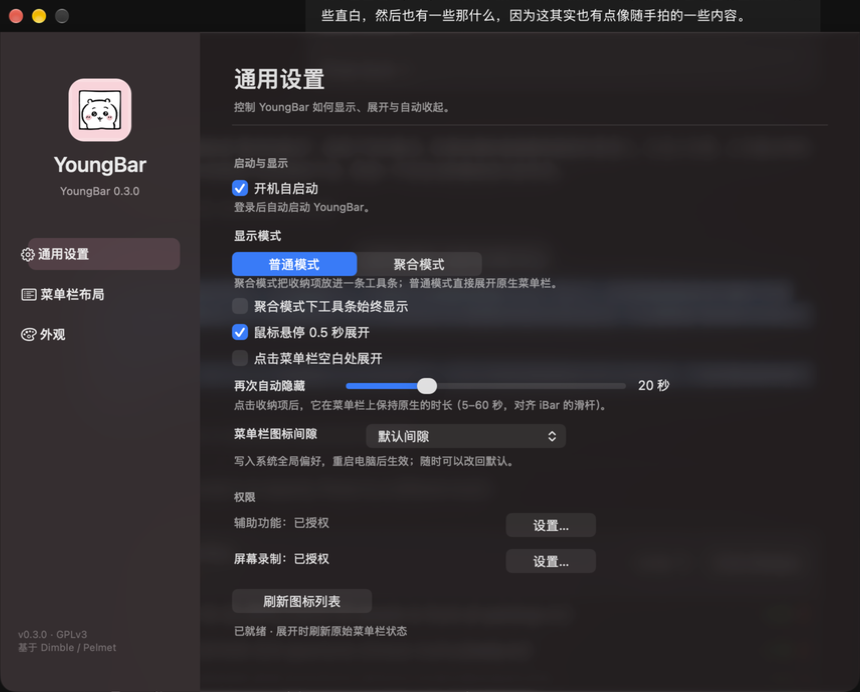
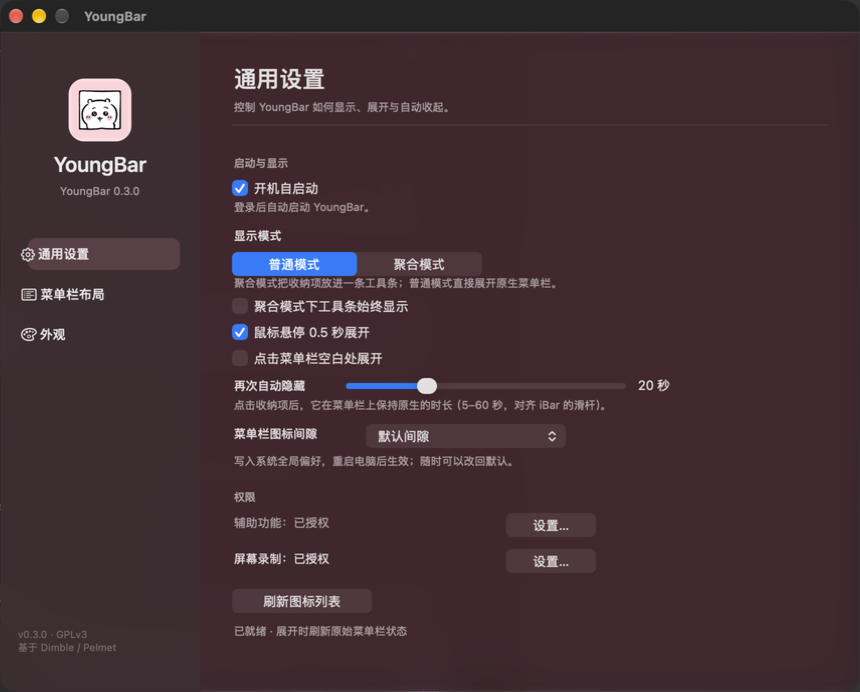
fix(youngbar): 设置窗口改为深色可拖动标题栏
- titlebarAppearsTransparent=false，显示 YoungBar 标题
- 窗口背景使用主题深色，深色模式下标题栏实心可拖
- 正文保持玻璃；浅色模式沿用系统标题栏
- 截图与第 127 轮日志

diff --git a/Sources/YoungBar/BarSettings.swift b/Sources/YoungBar/BarSettings.swift
@@ -68,8 +68,8 @@ final class BarSettings: NSObject, NSTableViewDataSource, NSTableViewDelegate {
         window.isReleasedWhenClosed = false
         window.isOpaque = false
         window.backgroundColor = .clear
-        window.titlebarAppearsTransparent = true
-        window.titleVisibility = .hidden
+        window.titlebarAppearsTransparent = false
+        window.titleVisibility = .visible
         window.isMovableByWindowBackground = true
         window.ignoresMouseEvents = false
         window.center()
@@ -476,6 +476,7 @@ final class BarSettings: NSObject, NSTableViewDataSource, NSTableViewDelegate {
         }
         for button in navButtons.values { button.highlightColor = theme.accent }
         glass.tintColor = theme.accent.withAlphaComponent(0.10)
+        window.backgroundColor = theme.strip.withAlphaComponent(0.92)
         sidebarTint.layer?.backgroundColor = theme.accent.withAlphaComponent(0.08).cgColor
         let isDark = NSApp.effectiveAppearance.bestMatch(from: [.darkAqua, .aqua]) == .darkAqua
         scrim.layer?.backgroundColor = (isDark

diff --git a/docs/STATUS.md b/docs/STATUS.md
@@ -38,7 +38,7 @@
 | 隐藏 → 展开 → 收起 | ✅ 真机通过 | `selftest.json`：`appeared: true`、`goneAgain: true` |
 | 定时自动收起 | ✅ 20 秒到期后自动收起 | `selftest.json`：`expirySeconds: 20`、`autoHidden: true` |
 | 收纳条 | ✅ 黑色圆角条 | `docs/images/shelf.png` |
-| 设置窗口玻璃 | ✅ `NSGlassEffectView` + 主题染色 + 深浅 scrim | `docs/images/settings-glass-{dark,light}.png` |
+| 设置窗口玻璃 | ✅ `NSGlassEffectView` + 主题染色 + 深浅 scrim；深色标题栏实心可拖 | `docs/images/settings-glass-{dark,light}.png` |
 | 布局顺序校准 | ✅ 新项按真实 x 插入；可见项每次刷新校准并持久化 | `itemOrder` 以有道翻译开头；`docs/images/settings-layout.png` |
 | 外观主题 | ✅ 深/浅/跟随系统 + 4 主题色 + 3 种收纳条 | `docs/images/appearance-{dark,light}.png`、`shelf-sakura.png` |
 | 关于窗口 | ✅ 菜单打开，显示版本 0.3.0 (3) | `abouttest.json`；`docs/images/about.png` |
